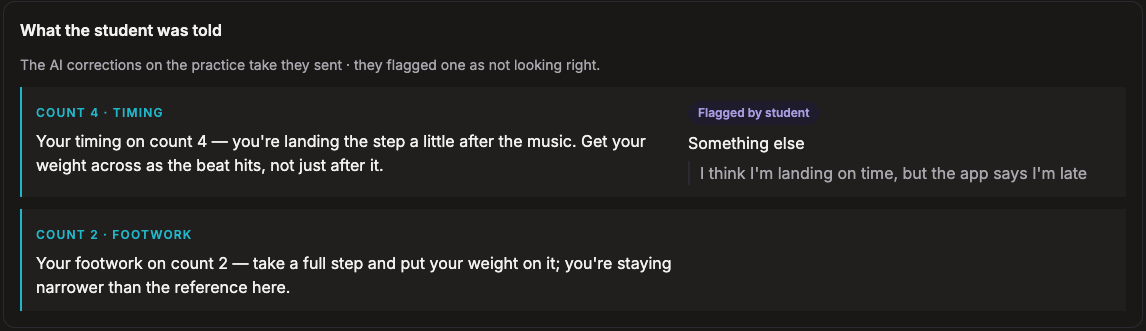
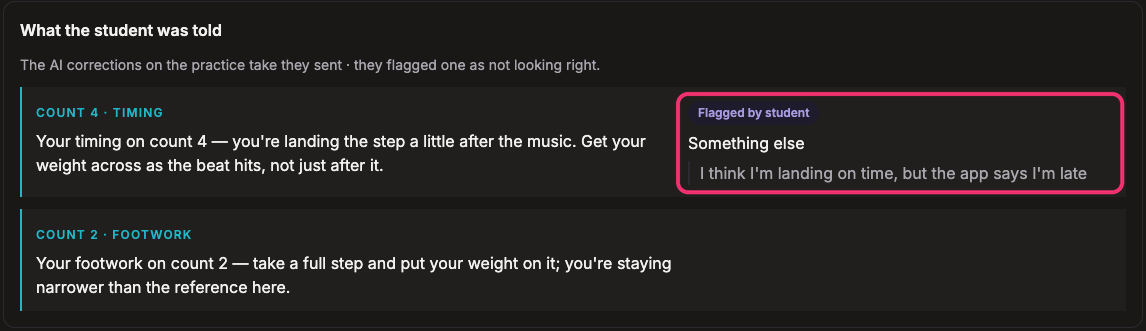
Dance Coach: highlight the flagging controls in section 06 (review edit)
Claude-Session: https://claude.ai/code/session_018qx1XbAjDzQmDvPBExcwdb

Changed region(s): [[0.5803, 0.2719, 0.9773, 0.6042], [0.9773, 0.3021, 1.0, 0.574]]

diff --git a/dance-coach.html b/dance-coach.html
@@ -982,10 +982,10 @@ body[data-theme] .next-card:hover .nc-arrow { background: var(--accent); border-
         <p>Even a reliable model will make mistakes. The app already tells students when it can&#x27;t see them or measure a take, but only a person can catch a correction that is wrong on a clear video. So I added a way for students to flag one. Practice takes stay private, and the instructor sees a flag only if the student submits that take.</p>
       </div>
       <div class="app-screens flag-screens">
-        <figure><figcaption><b>Step 1</b> · A student questions a correction</figcaption><img src="images/dance-coach/screen-flag-entry.jpg" width="600" height="917" loading="lazy" alt="Student practice feedback with two AI corrections, each with a Doesn't look right? link" /></figure>
+        <figure><figcaption><b>Step 1</b> · A student questions a correction</figcaption><img src="images/dance-coach/screen-flag-entry.jpg?v=2" width="600" height="917" loading="lazy" alt="Student practice feedback with two AI corrections, each with a Doesn't look right? link" /></figure>
         <figure><figcaption><b>Step 2</b> · The student says what looks wrong</figcaption><img src="images/dance-coach/screen-flag-form.jpg" width="600" height="1073" loading="lazy" alt="Flag form under a timing correction, with three reasons, an optional note, and Send and Cancel buttons" /></figure>
       </div>
-      <figure class="app-desk flag-review"><figcaption><b>Step 3</b> · The instructor sees the flag next to the correction</figcaption><img src="images/dance-coach/screen-flag-review.png" width="1146" height="331" loading="lazy" alt="Instructor dashboard card titled What the student was told, with two AI corrections. The timing correction is marked Flagged by student, with the reason and the student&#x27;s note beside it." /></figure>
+      <figure class="app-desk flag-review"><figcaption><b>Step 3</b> · The instructor sees the flag next to the correction</figcaption><img src="images/dance-coach/screen-flag-review.png?v=2" width="1146" height="331" loading="lazy" alt="Instructor dashboard card titled What the student was told, with two AI corrections. The timing correction is marked Flagged by student, with the reason and the student&#x27;s note beside it." /></figure>
       <div class="prose" style="margin-top:24px">
         <p>Usability tests with students and instructors are upcoming. They&#x27;ll use scripted feedback, so reactions reflect the design rather than the current model.</p>
         <p><strong>What&#x27;s next.</strong> If I continue this project, I&#x27;d explore a version focused on fundamentals, such as spins and basic steps. These give the AI a clearer target than full choreography, and students could return to them to keep improving.</p>
